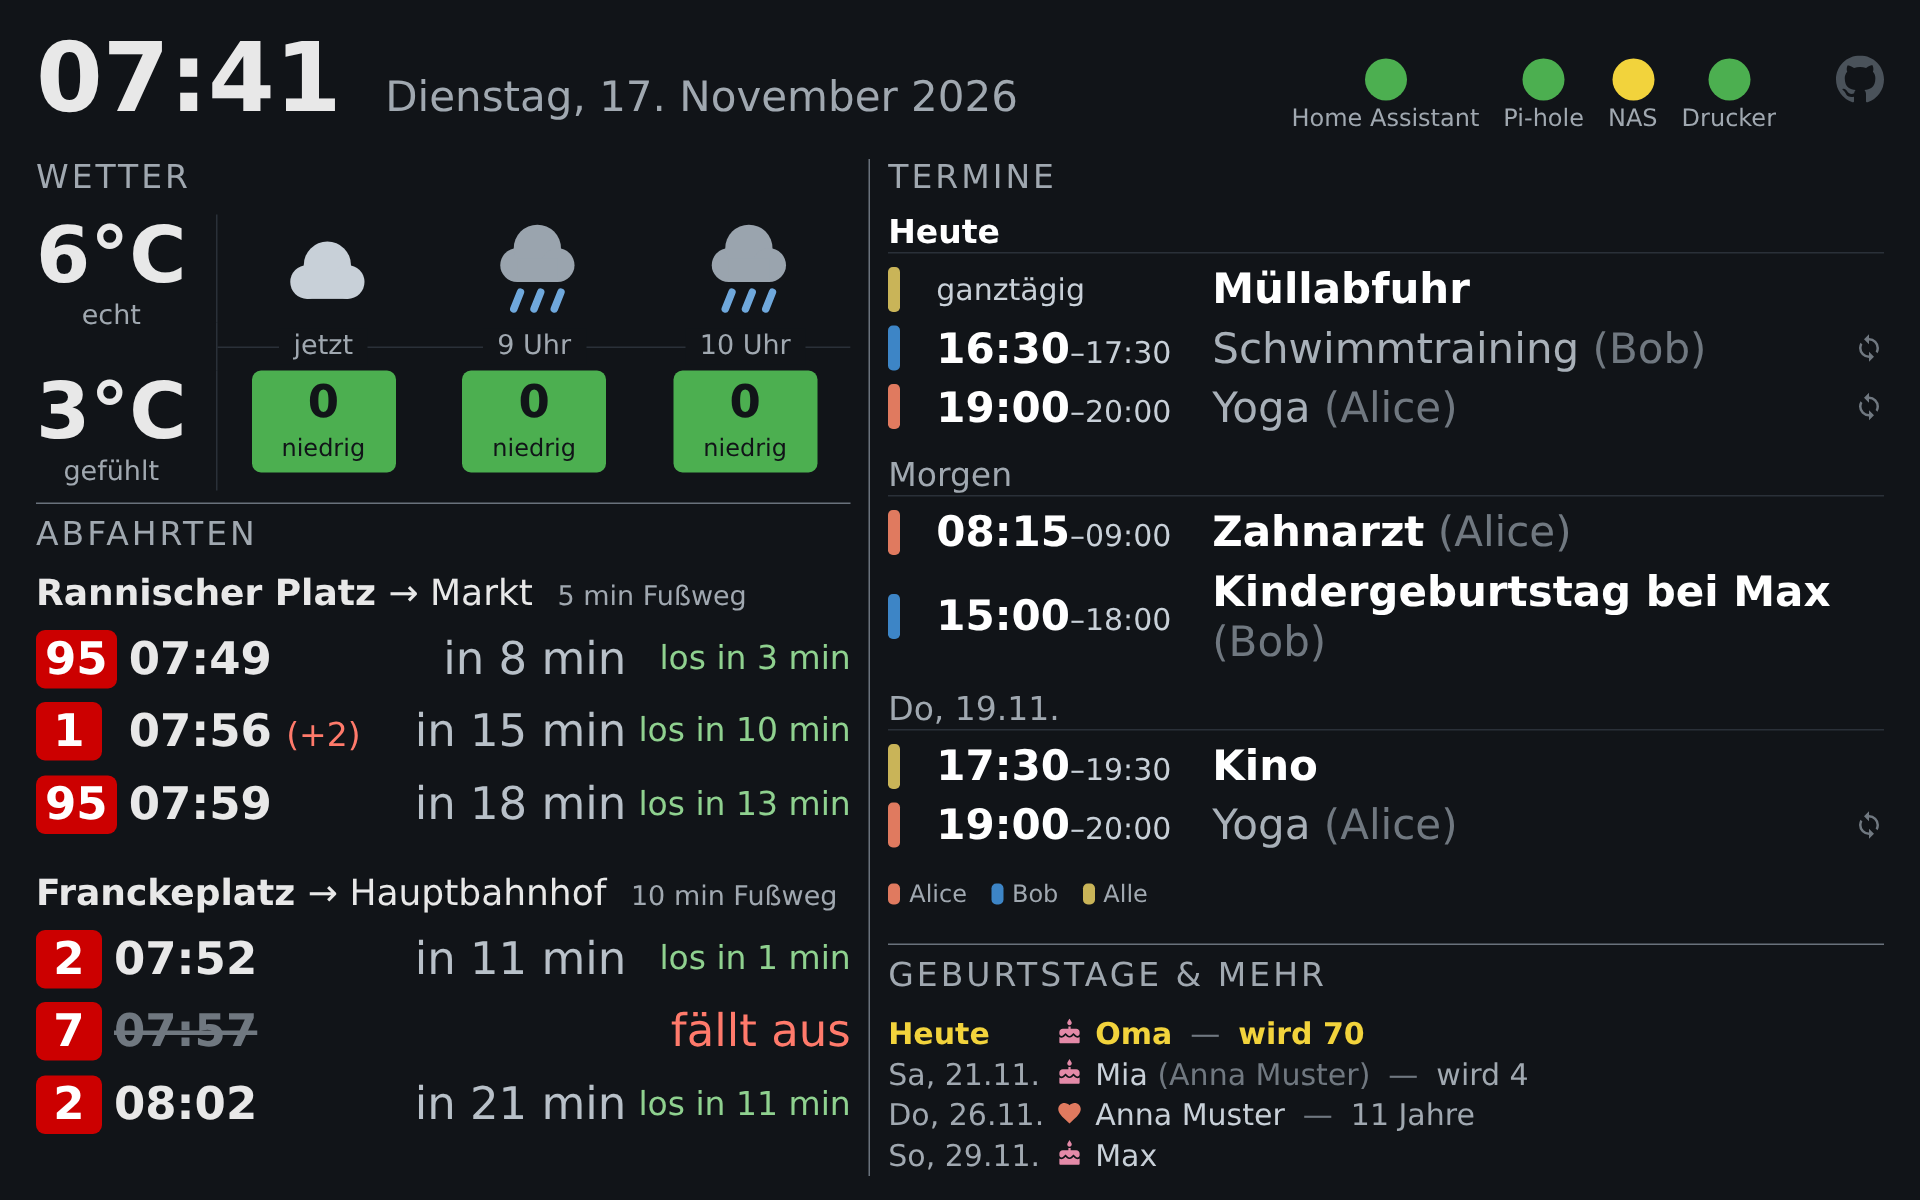
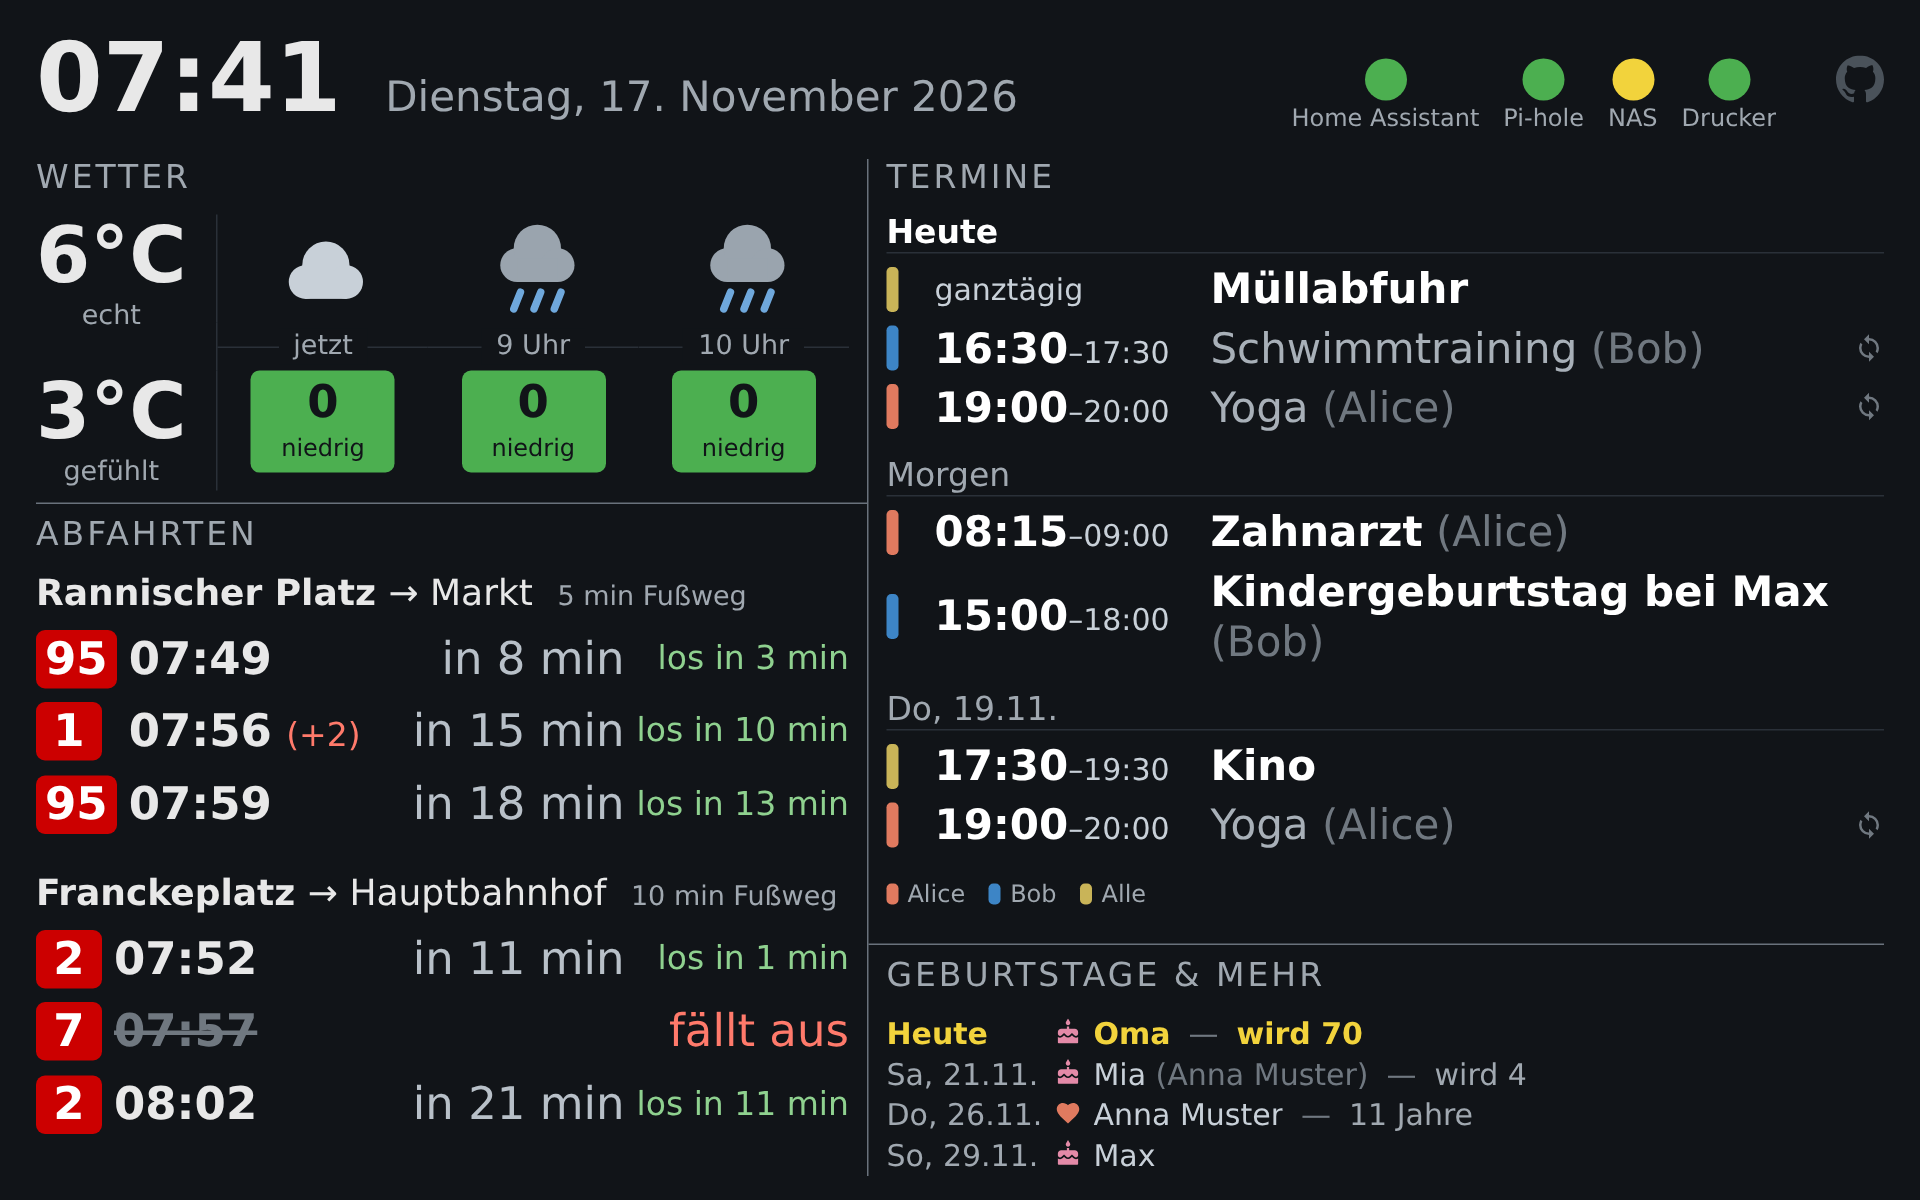
Join the widget separators like the lines in the weather widget
The space beside the vertical line is now padding of the widgets instead
of a margin of the columns, so the horizontal lines run up to the vertical
one and form T-joints. The test checks that the lines meet.

diff --git a/src/home_dashboard/static/style.css b/src/home_dashboard/static/style.css
@@ -200,7 +200,6 @@ body {
   -webkit-box-flex: 9;
   -webkit-flex: 9 1 0;
   flex: 9 1 0;
-  margin-right: 0.75rem;
   min-width: 0;
   min-height: 0;
   display: -webkit-box;
@@ -211,18 +210,21 @@ body {
   flex-direction: column;
 }
 
-.column:last-child {
-  margin-right: 0;
-}
-
 /* Fine lines split the widgets: a vertical one between the columns, a horizontal one in each
  * column, in the middle of the gaps (as wide and high as before the lines). Clearly lighter than
  * the lines inside the widgets (#2a3038, e.g. between the calendar days), so they do not read as
- * one more day. Padding and borders are outside the flex distribution, so the 45/55 split of the
- * widths stays exact. */
+ * one more day. The space beside the vertical line is padding of the widgets, not a margin of the
+ * columns, so the horizontal lines run up to the vertical one and join it (like in the weather). */
 .column + .column {
-  padding-left: 0.75rem;
   border-left: 1px solid #6a727c;
+}
+
+.column:not(:last-child) .widget {
+  padding-right: 0.75rem;
+}
+
+.column + .column .widget {
+  padding-left: 0.75rem;
 }
 
 .column .widget {
@@ -307,12 +309,17 @@ body {
     margin-bottom: 0;
   }
 
-  /* The line between the columns turns horizontal */
+  /* The line between the columns turns horizontal, the widgets take the full width */
   .column + .column {
-    padding-left: 0;
     border-left: 0;
     padding-top: 1rem;
     border-top: 1px solid #6a727c;
+  }
+
+  .column:not(:last-child) .widget,
+  .column + .column .widget {
+    padding-left: 0;
+    padding-right: 0;
   }
 
   /* Weather + departures and calendar + birthdays share the height equally */

diff --git a/tests/test_layout.py b/tests/test_layout.py
@@ -497,7 +497,7 @@ SEPARATORS = """() => {
 
 
 @pytest.mark.parametrize("viewport", VIEWPORTS, ids=lambda size: f"{size[0]}x{size[1]}")
-def test_fine_lines_separate_the_widgets(open_dashboard, viewport):
+def test_fine_lines_separate_the_widgets_and_join_each_other(open_dashboard, viewport):
     page = open_dashboard(viewport)
     separators = page.evaluate(SEPARATORS)
     lines, widgets = separators["lines"], separators["widgets"]
@@ -520,12 +520,14 @@ def test_fine_lines_separate_the_widgets(open_dashboard, viewport):
         ]
         assert len(found) == 1, (first, second, lines)
         assert found[0]["from"] <= span[0] + 1 and found[0]["to"] >= span[1] - 1, found[0]
+        return found[0]
 
-    separated(weather, departures, side_by_side=False)
-    separated(calendar, birthdays, side_by_side=False)
+    outdoors = separated(weather, departures, side_by_side=False)
+    birthdays_line = separated(calendar, birthdays, side_by_side=False)
+    between = separated(departures, calendar, side_by_side=landscape)
     if landscape:
-        separated(departures, calendar, side_by_side=True)
-    else:
-        separated(departures, calendar, side_by_side=False)
+        # like in the weather widget: the horizontal lines run into the vertical one
+        assert outdoors["to"] == pytest.approx(between["at"], abs=1)
+        assert birthdays_line["from"] == pytest.approx(between["at"], abs=1)
     assert len(lines) == 3, "no line at the edges of the display"
     assert_fits(page)
